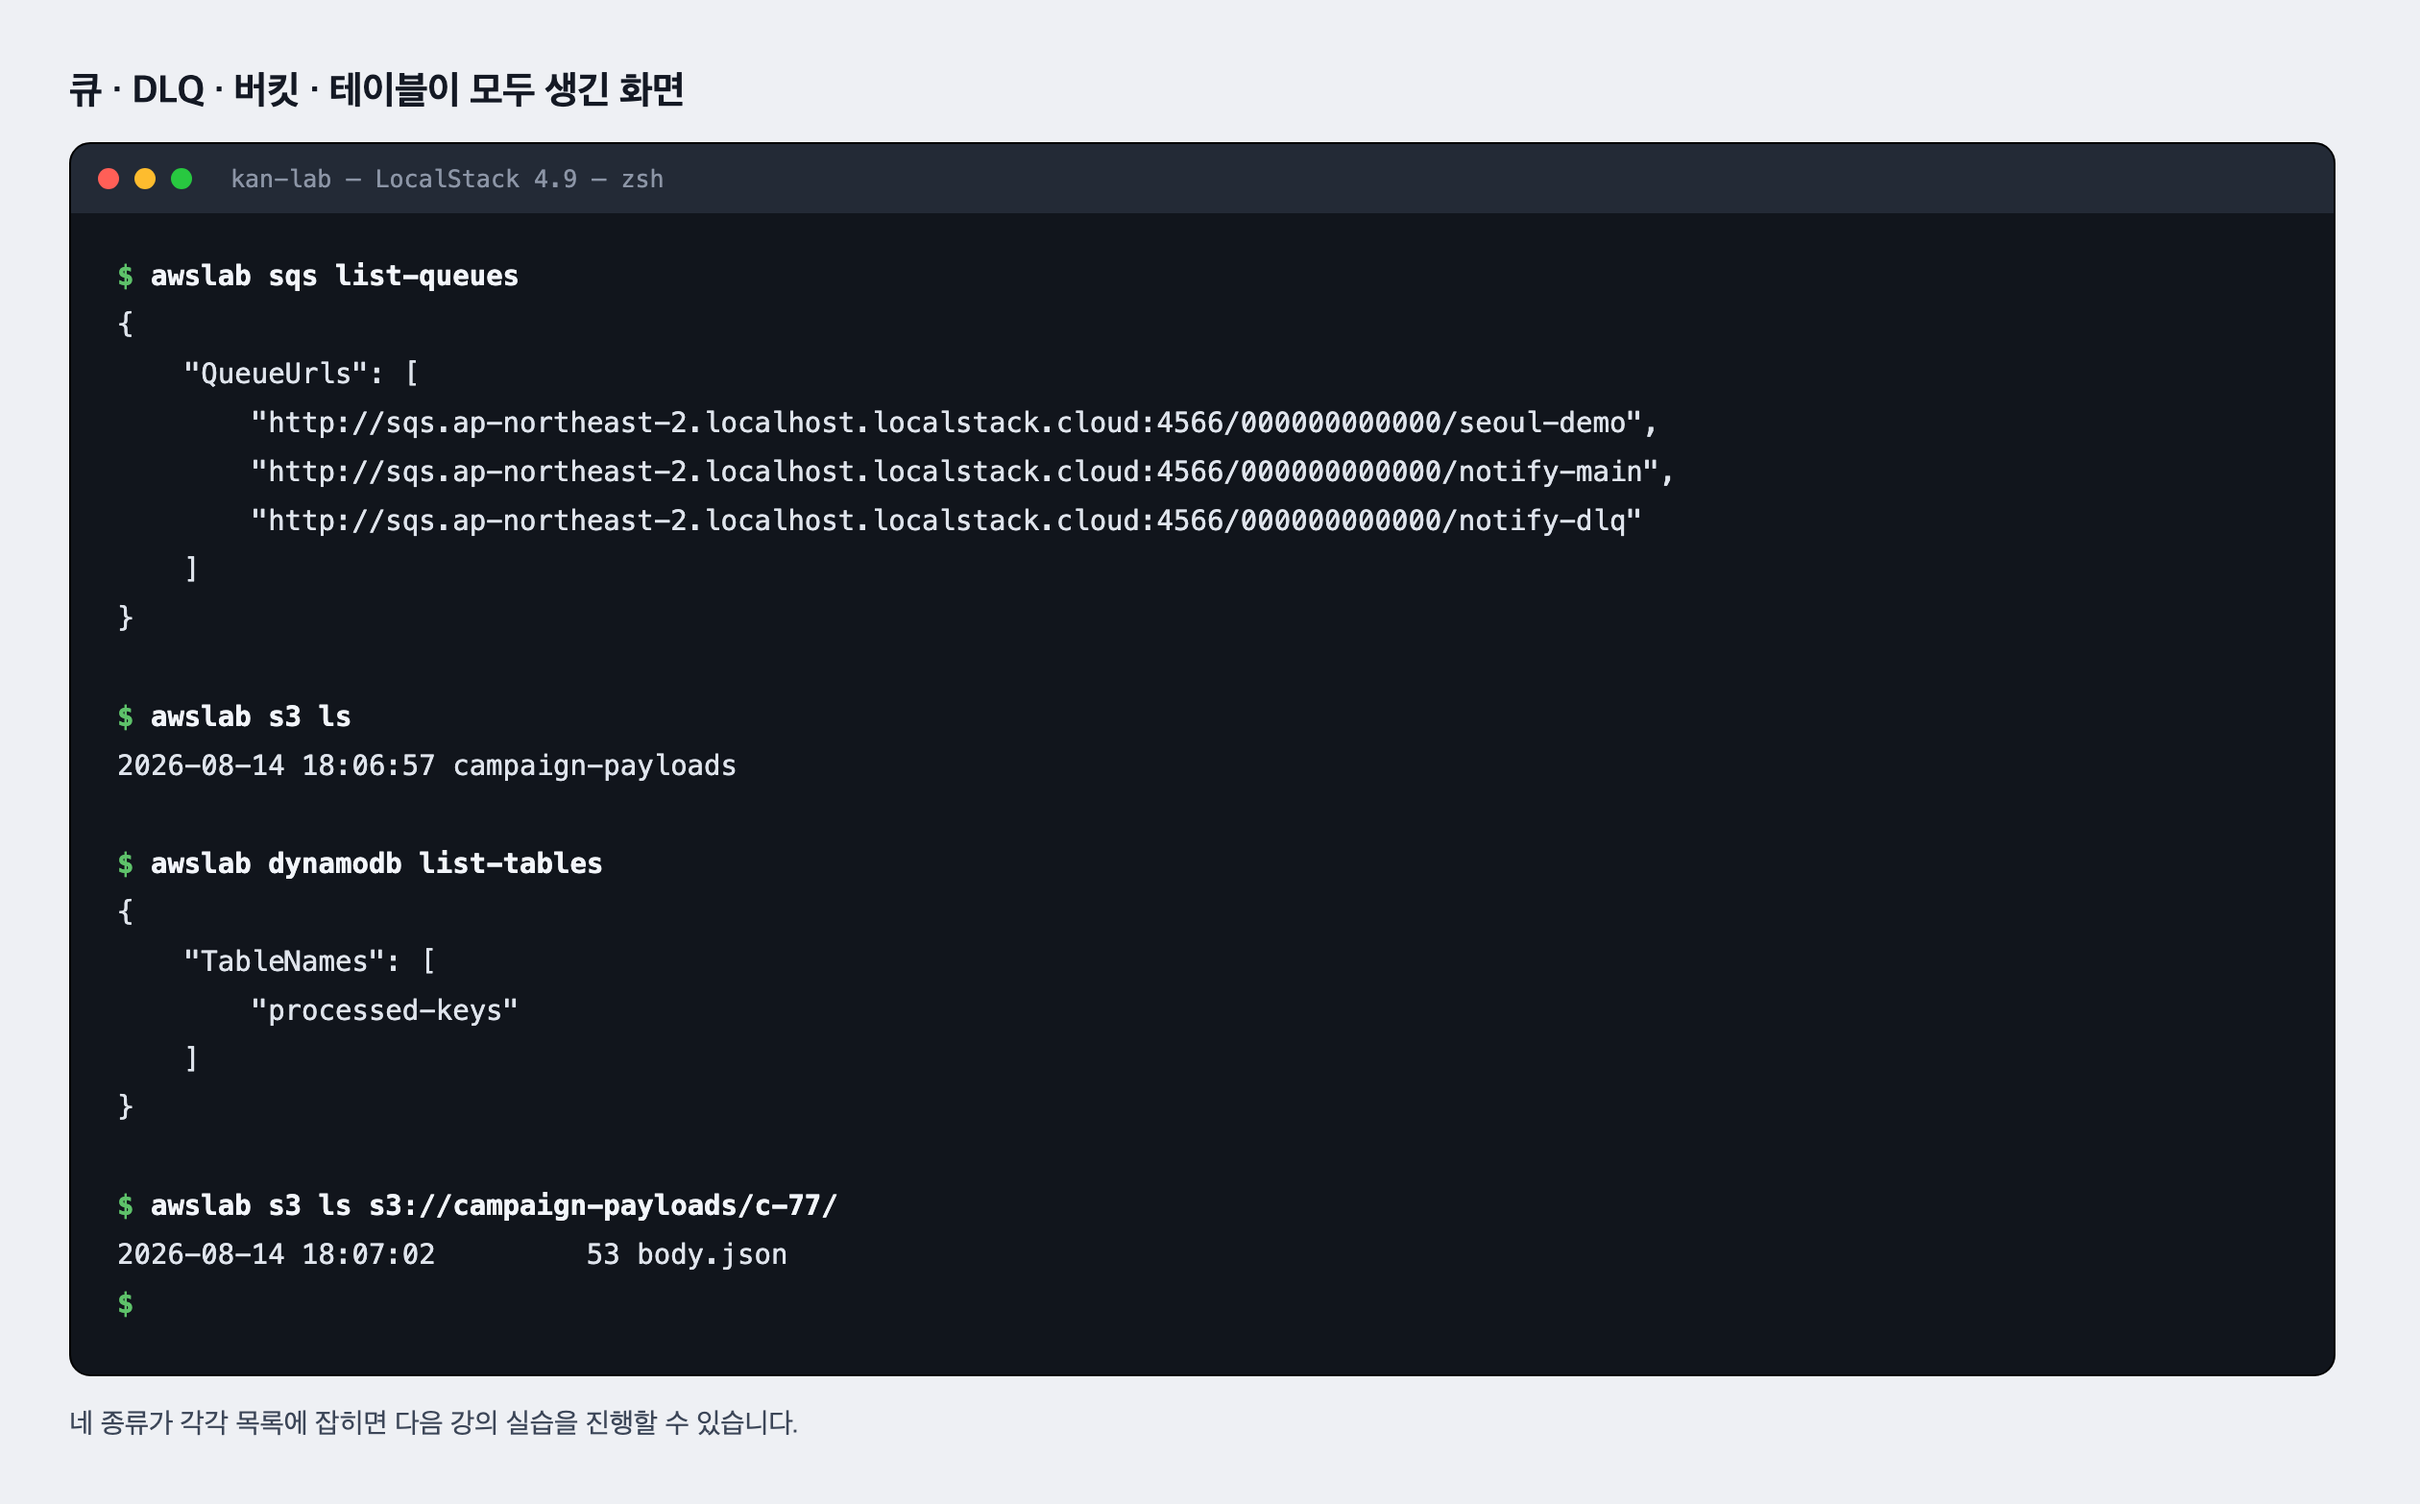
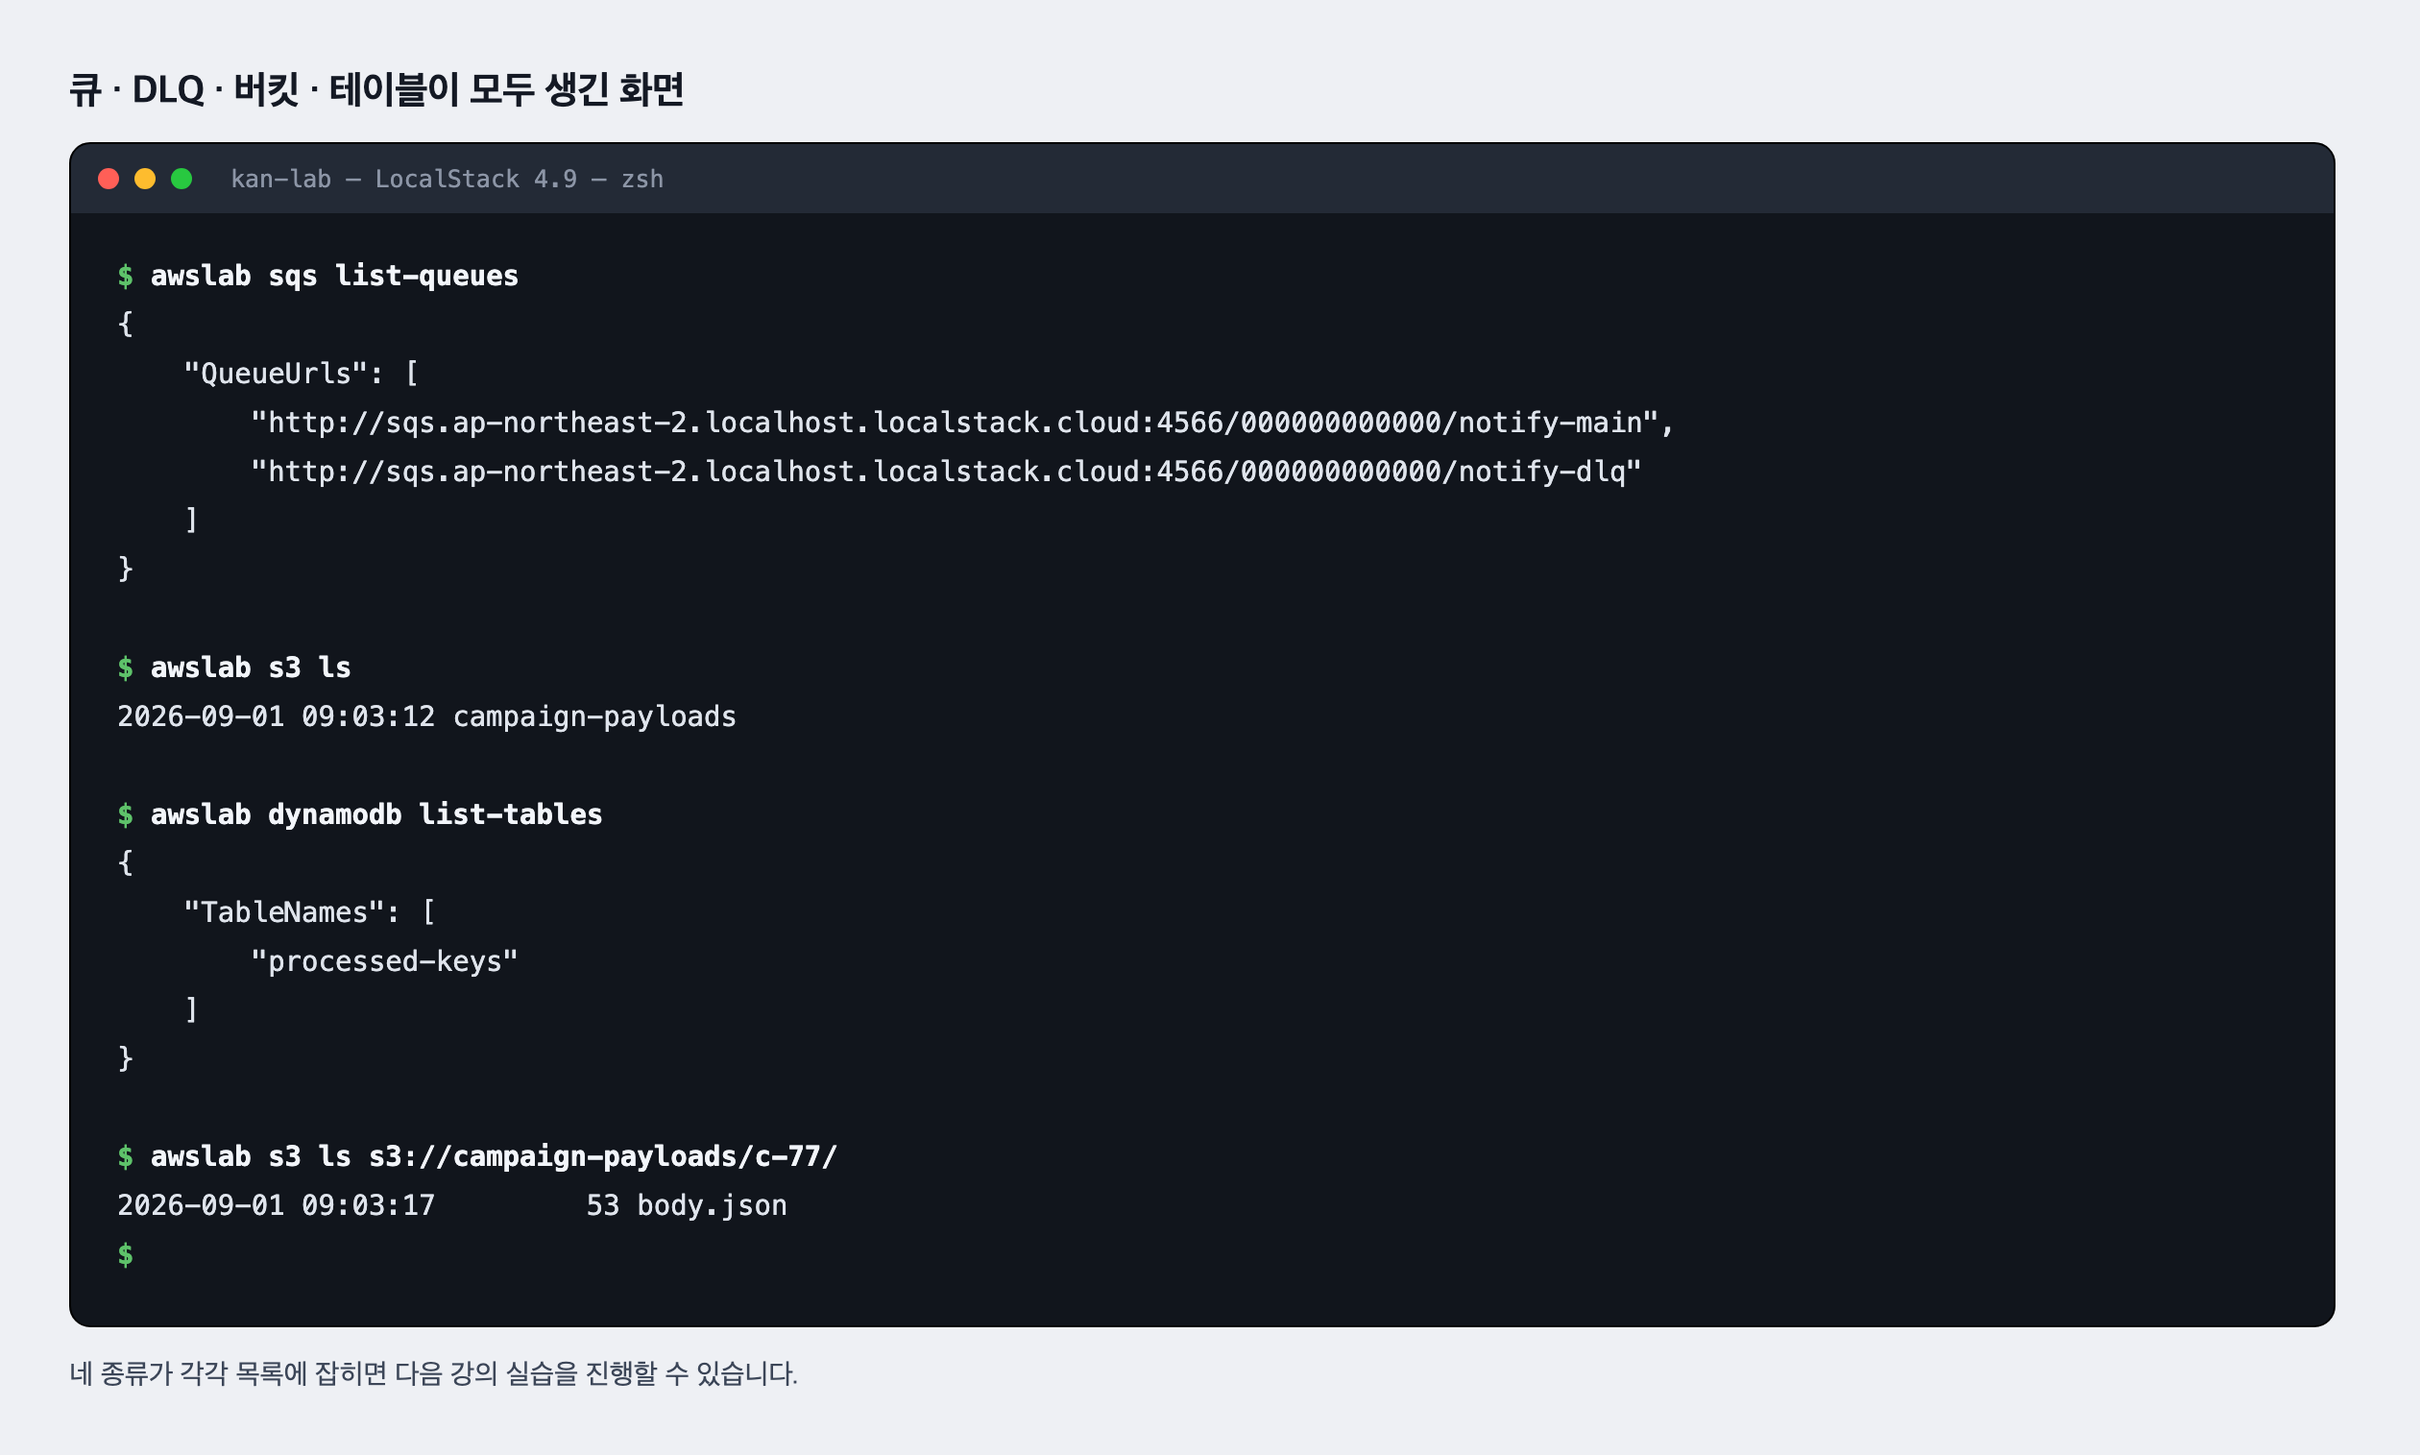
교재 v3 — 1-2(IAM·리전·비용·teardown) 삭제 반영
- term-region.png 제거 (해당 강 삭제)
- term-resources.png / term-teardown.png 재촬영 (seoul-demo 제거)
- README 강 번호 갱신

diff --git a/README.md b/README.md
@@ -18,13 +18,12 @@
 | 파일 | 쓰이는 곳 | 내용 |
 |---|---|---|
 | `diag-sync-vs-async.png` | 1-1 | 요청 기반과 이벤트 기반 처리 흐름 비교 |
-| `term-region.png` | 1-2 | 리전만 바꿔 조회했을 때의 실제 출력 |
-| `diag-service-map.png` | 1-3 | Lambda·SQS·DLQ·S3·DynamoDB 역할 배치도 |
-| `term-resources.png` | 1-3 | 큐·DLQ·버킷·테이블 생성 확인 출력 |
-| `diag-payload-ref.png` | 1-3 | 본문 크기와 무관하게 일정한 메시지 크기 |
-| `diag-local-to-aws.png` | 1-4 | 로컬 검증에서 배포·teardown 까지 6단계 |
-| `term-redelivery.png` | 1-5 | 삭제하지 않은 메시지가 같은 MessageId 로 재전달되는 실제 출력 |
-| `term-dlq.png` | 1-5 | 재시도 한도 초과 후 DLQ 로 이동한 실제 출력 |
-| `term-teardown.png` | 1-5 | teardown 후 목록이 비어 있는 실제 출력 |
+| `diag-service-map.png` | 1-2 | Lambda·SQS·DLQ·S3·DynamoDB 역할 배치도 |
+| `term-resources.png` | 1-2 | 큐·DLQ·버킷·테이블 생성 확인 출력 |
+| `diag-payload-ref.png` | 1-2 | 본문 크기와 무관하게 일정한 메시지 크기 |
+| `diag-local-to-aws.png` | 1-3 | 로컬 검증에서 배포·teardown 까지 6단계 |
+| `term-redelivery.png` | 1-4 | 삭제하지 않은 메시지가 같은 MessageId 로 재전달되는 실제 출력 |
+| `term-dlq.png` | 1-4 | 재시도 한도 초과 후 DLQ 로 이동한 실제 출력 |
+| `term-teardown.png` | 1-4 | teardown 후 목록이 비어 있는 실제 출력 |
 
 터미널 캡처는 모두 **LocalStack 4.9 에서 실제로 실행한 출력**입니다. 지어낸 출력은 없습니다.
